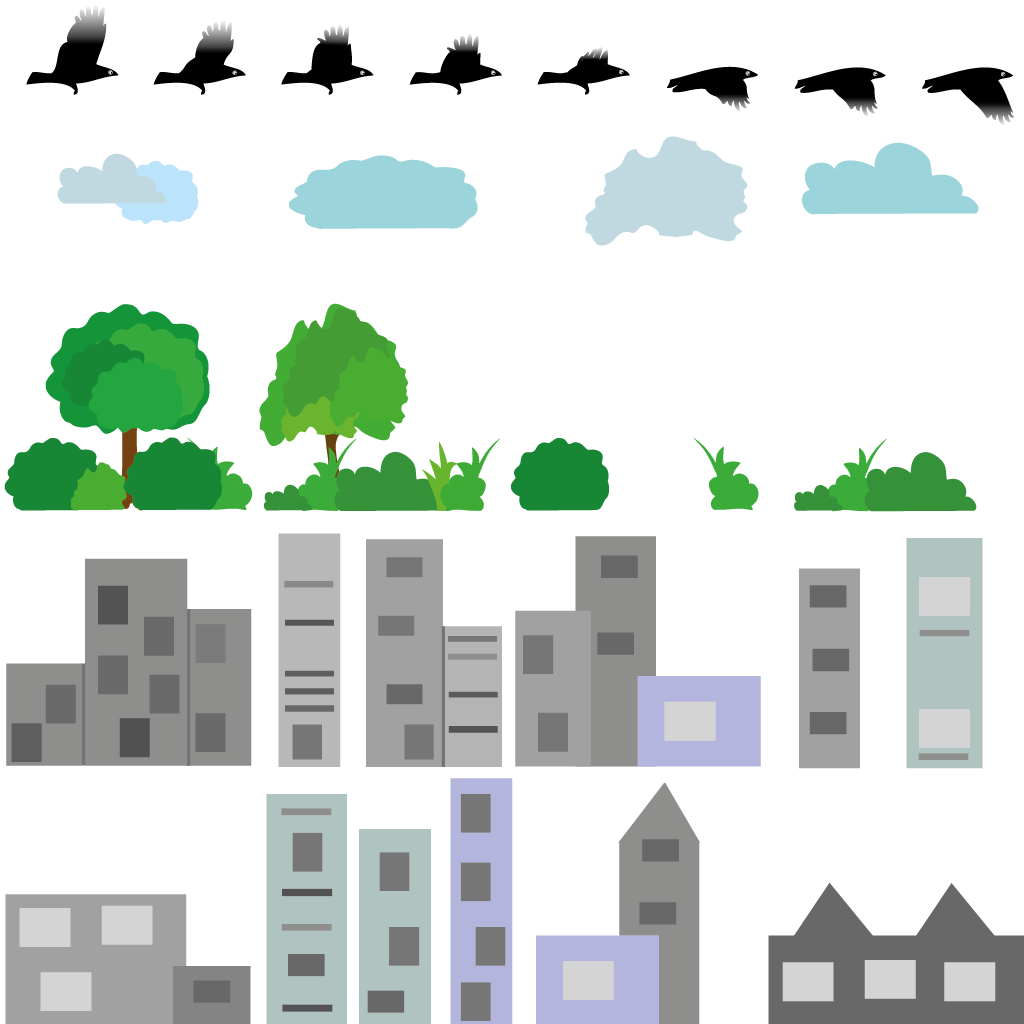
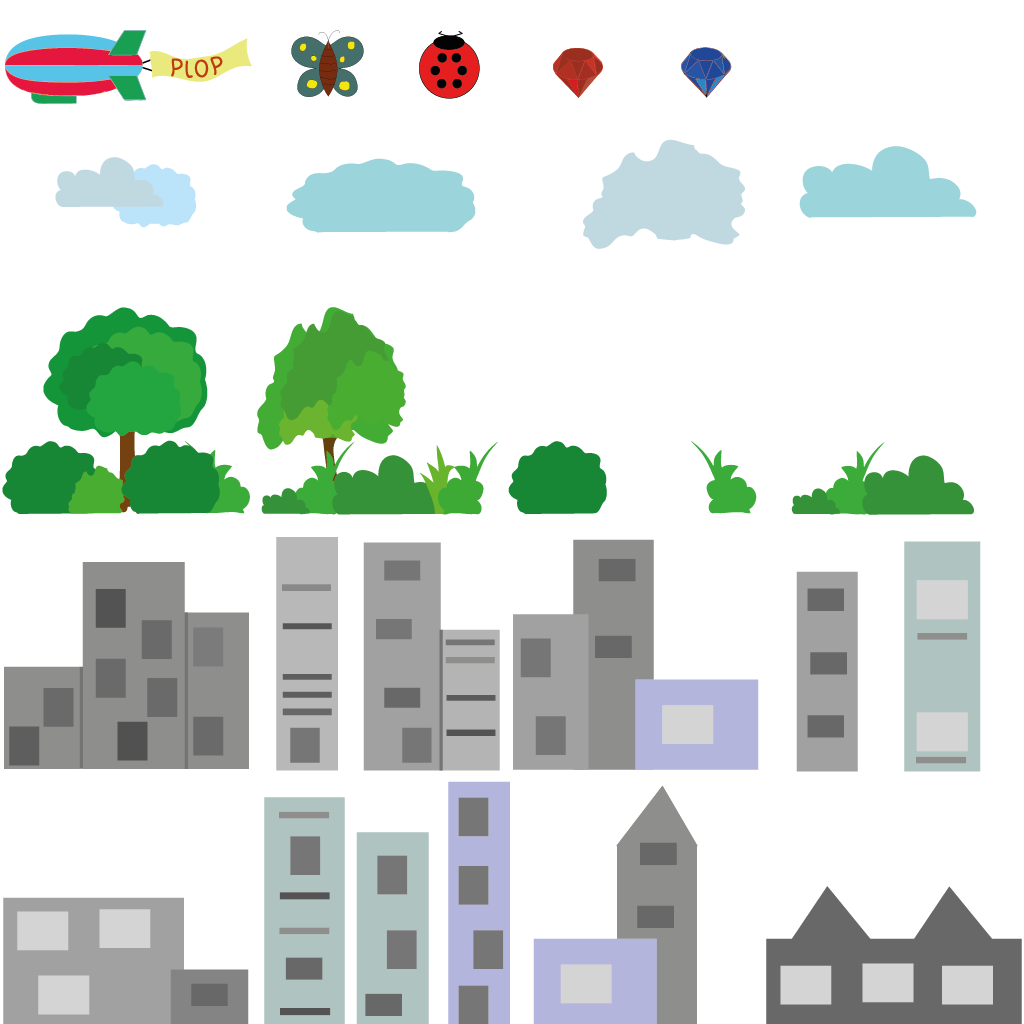
Load obstacles and food

diff --git a/html5/src/game.c b/html5/src/game.c
@@ -97,6 +97,36 @@ int LoadTarget(int world_slice, Entity *entities, int n_entities)
     return 0;
 }
 
+int LoadObstacle(int world_slice, Entity *entities, int n_entities)
+{
+    Entity es[1] = {
+        (const Entity){&g_obstacle_sprites[0], world_slice*4000 - 1800, 800, ENTITY_TYPE_OBSTACLE}
+    };
+    for(int i = 0; i < 1; i++) {
+        int res = AddEntity(es[i], entities, n_entities);
+        if(res != 0) {
+            return -1;
+        }
+    }
+    return 0;
+}
+
+int LoadFood(int world_slice, Entity *entities, int n_entities)
+{
+    Entity es[3] = {
+        (const Entity){&g_food_sprites[rand() % 4], world_slice*4000 - 1800, 600, ENTITY_TYPE_FOOD},
+        (const Entity){&g_food_sprites[rand() % 4], world_slice*4000 - 200, 600, ENTITY_TYPE_FOOD},
+        (const Entity){&g_food_sprites[rand() % 4], world_slice*4000 + 1800, 600, ENTITY_TYPE_FOOD}
+    };
+    for(int i = 0; i < 3; i++) {
+        int res = AddEntity(es[i], entities, n_entities);
+        if(res != 0) {
+            return -1;
+        }
+    }
+    return 0;
+}
+
 void ClearEntities(Entity *entities, int n_entities)
 {
     for(int i = 0; i < n_entities; i++) {
@@ -165,7 +195,21 @@ void GameStateUpdate(GameState* game_state, GameInput game_input)
         ClearEntities(player_plane->entities, MAX_ENTITIES_PER_PLANE);
         player_plane->entities[0] = (const Entity){&g_kage_sprites[0], KAGE_X, KAGE_NEUTRAL_Y, ENTITY_TYPE_PLAYER};
 
-        game_state->n_planes = 4;
+        EntityPlane* obstacle_plane = &game_state->planes[4];
+        obstacle_plane->gl_tex = game_state->gl_bg_tex;
+        obstacle_plane->zoom = (1.0f/(WORLD_SLICE_WIDTH/4));
+        ClearEntities(obstacle_plane->entities, MAX_ENTITIES_PER_PLANE);
+        LoadObstacle(0, obstacle_plane->entities, MAX_ENTITIES_PER_PLANE);
+        LoadObstacle(1, obstacle_plane->entities, MAX_ENTITIES_PER_PLANE);
+
+        EntityPlane* food_plane = &game_state->planes[5];
+        food_plane->gl_tex = game_state->gl_bg_tex;
+        food_plane->zoom = (1.0f/(WORLD_SLICE_WIDTH/4));
+        ClearEntities(food_plane->entities, MAX_ENTITIES_PER_PLANE);
+        LoadFood(0, food_plane->entities, MAX_ENTITIES_PER_PLANE);
+        LoadFood(1, food_plane->entities, MAX_ENTITIES_PER_PLANE);
+
+        game_state->n_planes = 6;
 
         game_state->play_state = PLAY_STATE_PLAYING;
     }
@@ -174,6 +218,8 @@ void GameStateUpdate(GameState* game_state, GameInput game_input)
         EntityPlane* bg_plane = &game_state->planes[1];
         EntityPlane* target_plane = &game_state->planes[2];
         EntityPlane* player_plane = &game_state->planes[3];
+        EntityPlane* obstacle_plane = &game_state->planes[4];
+        EntityPlane* food_plane = &game_state->planes[5];
 
         if(((farbg_plane->offset_x+FARBG_SPEED) / WORLD_SLICE_WIDTH) > (farbg_plane->offset_x / WORLD_SLICE_WIDTH)) {
             ClearOldEntities(farbg_plane->entities, MAX_ENTITIES_PER_PLANE, farbg_plane->offset_x);
@@ -188,16 +234,21 @@ void GameStateUpdate(GameState* game_state, GameInput game_input)
         if(((bg_plane->offset_x+BG_SPEED) / WORLD_SLICE_WIDTH) > (bg_plane->offset_x / WORLD_SLICE_WIDTH)) {
             ClearOldEntities(bg_plane->entities, MAX_ENTITIES_PER_PLANE, bg_plane->offset_x);
             ClearOldEntities(target_plane->entities, MAX_ENTITIES_PER_PLANE, target_plane->offset_x);
+            ClearOldEntities(obstacle_plane->entities, MAX_ENTITIES_PER_PLANE, obstacle_plane->offset_x);
+            ClearOldEntities(food_plane->entities, MAX_ENTITIES_PER_PLANE, food_plane->offset_x);
             int next_world_slice = ((bg_plane->offset_x+BG_SPEED) / WORLD_SLICE_WIDTH) + 1;
             int res1 = LoadBg(next_world_slice, bg_plane->entities, MAX_ENTITIES_PER_PLANE);
             int res2 = LoadTarget(next_world_slice, target_plane->entities, MAX_ENTITIES_PER_PLANE);
-            if(res1 != 0 || res2 != 0) {
+            int res3 = LoadObstacle(next_world_slice, obstacle_plane->entities, MAX_ENTITIES_PER_PLANE);
+            int res4 = LoadFood(next_world_slice, food_plane->entities, MAX_ENTITIES_PER_PLANE);
+            if(res1 != 0 || res2 != 0 || res3 != 0 || res4 != 0) {
                 LOGE("Out of space for entities\n");
             }
         }
         bg_plane->offset_x += BG_SPEED;
         target_plane->offset_x += BG_SPEED;
-
+        obstacle_plane->offset_x += BG_SPEED;
+        food_plane->offset_x += BG_SPEED;
         
         if(game_state->kage_state == KAGE_MOVING_STRAIGHT) {
             if(game_input.event_type == GAME_INPUT_EVENT_SWIPE_UP) {

diff --git a/html5/src/content.c b/html5/src/content.c
@@ -211,6 +211,37 @@ Sprite g_building_sprites[8] = {
     }
 };
 
+Sprite g_food_sprites[4] = {
+    {
+        (256.0f + 0.5f)/1024.0f, (000.0f + 0.5f)/1024.0f,
+        (383.0f + 0.5f)/1024.0f, (127.0f + 0.5f)/1024.0f,
+        0.25f, 0.25f,
+    },
+    {
+        (384.0f + 0.5f)/1024.0f, (000.0f + 0.5f)/1024.0f,
+        (511.0f + 0.5f)/1024.0f, (127.0f + 0.5f)/1024.0f,
+        0.25f, 0.25f,
+    },
+    {
+        (512.0f + 0.5f)/1024.0f, (000.0f + 0.5f)/1024.0f,
+        (639.0f + 0.5f)/1024.0f, (127.0f + 0.5f)/1024.0f,
+        0.25f, 0.25f,
+    },
+    {
+        (640.0f + 0.5f)/1024.0f, (000.0f + 0.5f)/1024.0f,
+        (767.0f + 0.5f)/1024.0f, (127.0f + 0.5f)/1024.0f,
+        0.25f, 0.25f,
+    }
+};
+
+Sprite g_obstacle_sprites[1] = {
+    {
+        (000.0f + 0.5f)/1024.0f, (000.0f + 0.5f)/1024.0f,
+        (255.0f + 0.5f)/1024.0f, (127.0f + 0.5f)/1024.0f,
+        0.5f, 0.25f,
+    },
+};
+
 AnimSeq g_kage_anim = {
     {
         {&g_kage_sprites[0], 2},

diff --git a/html5/inc/content.h b/html5/inc/content.h
@@ -31,6 +31,8 @@ extern Sprite g_building_sprites[8];
 extern Sprite g_kage_sprites[8];
 extern Sprite g_crap_sprites[2];
 extern Sprite g_target_sprites[8];
+extern Sprite g_food_sprites[4];
+extern Sprite g_obstacle_sprites[1];
 
 extern AnimSeq g_kage_anim;
 

diff --git a/html5/inc/game.h b/html5/inc/game.h
@@ -58,7 +58,8 @@ typedef enum {
     ENTITY_TYPE_PLAYER,
     ENTITY_TYPE_CRAP,
     ENTITY_TYPE_TARGET,
-    ENTITY_TYPE_FOOD
+    ENTITY_TYPE_FOOD,
+    ENTITY_TYPE_OBSTACLE,
 } EntityType;
 
 typedef enum {
